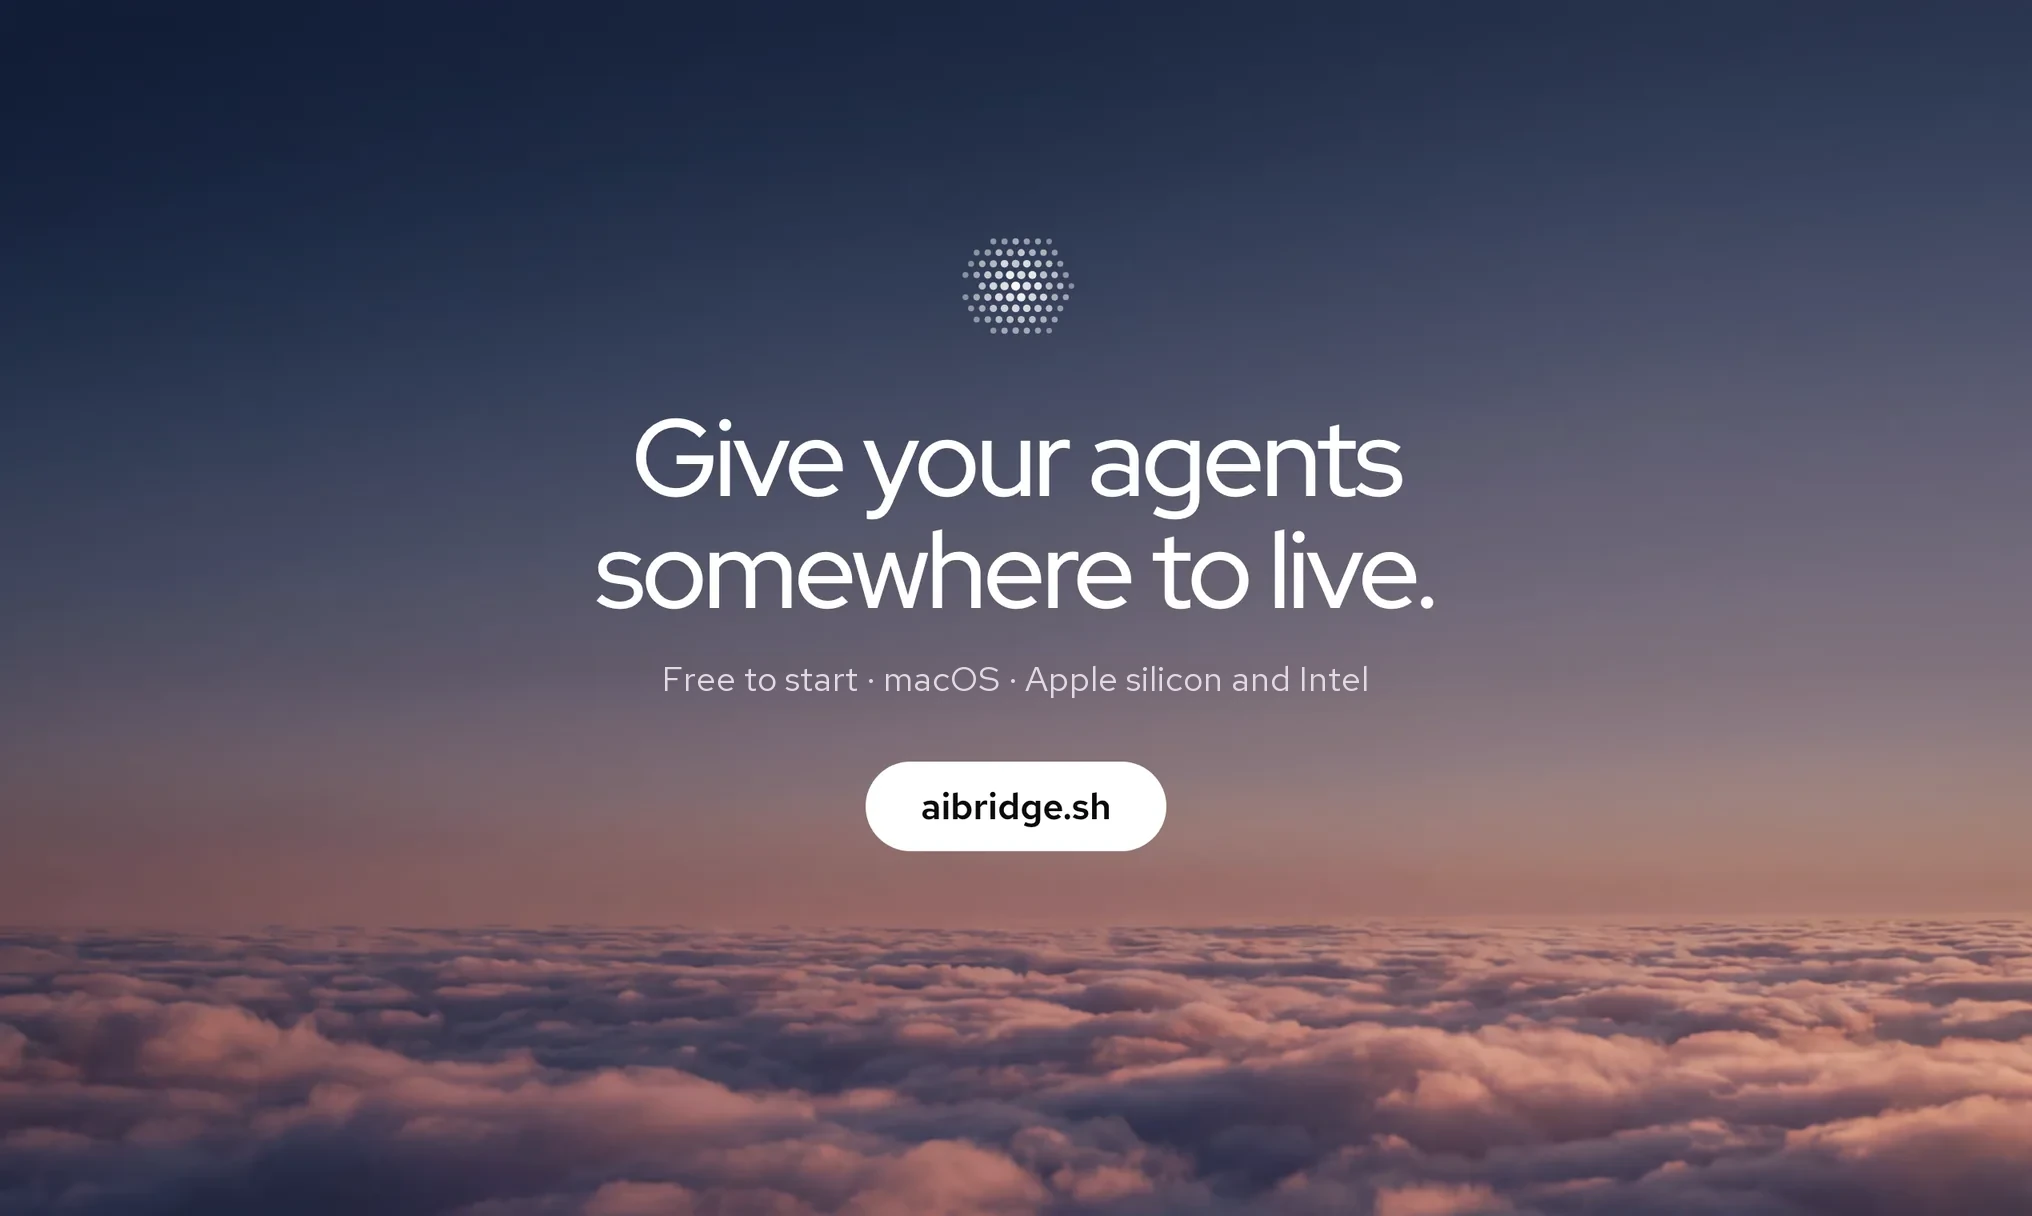
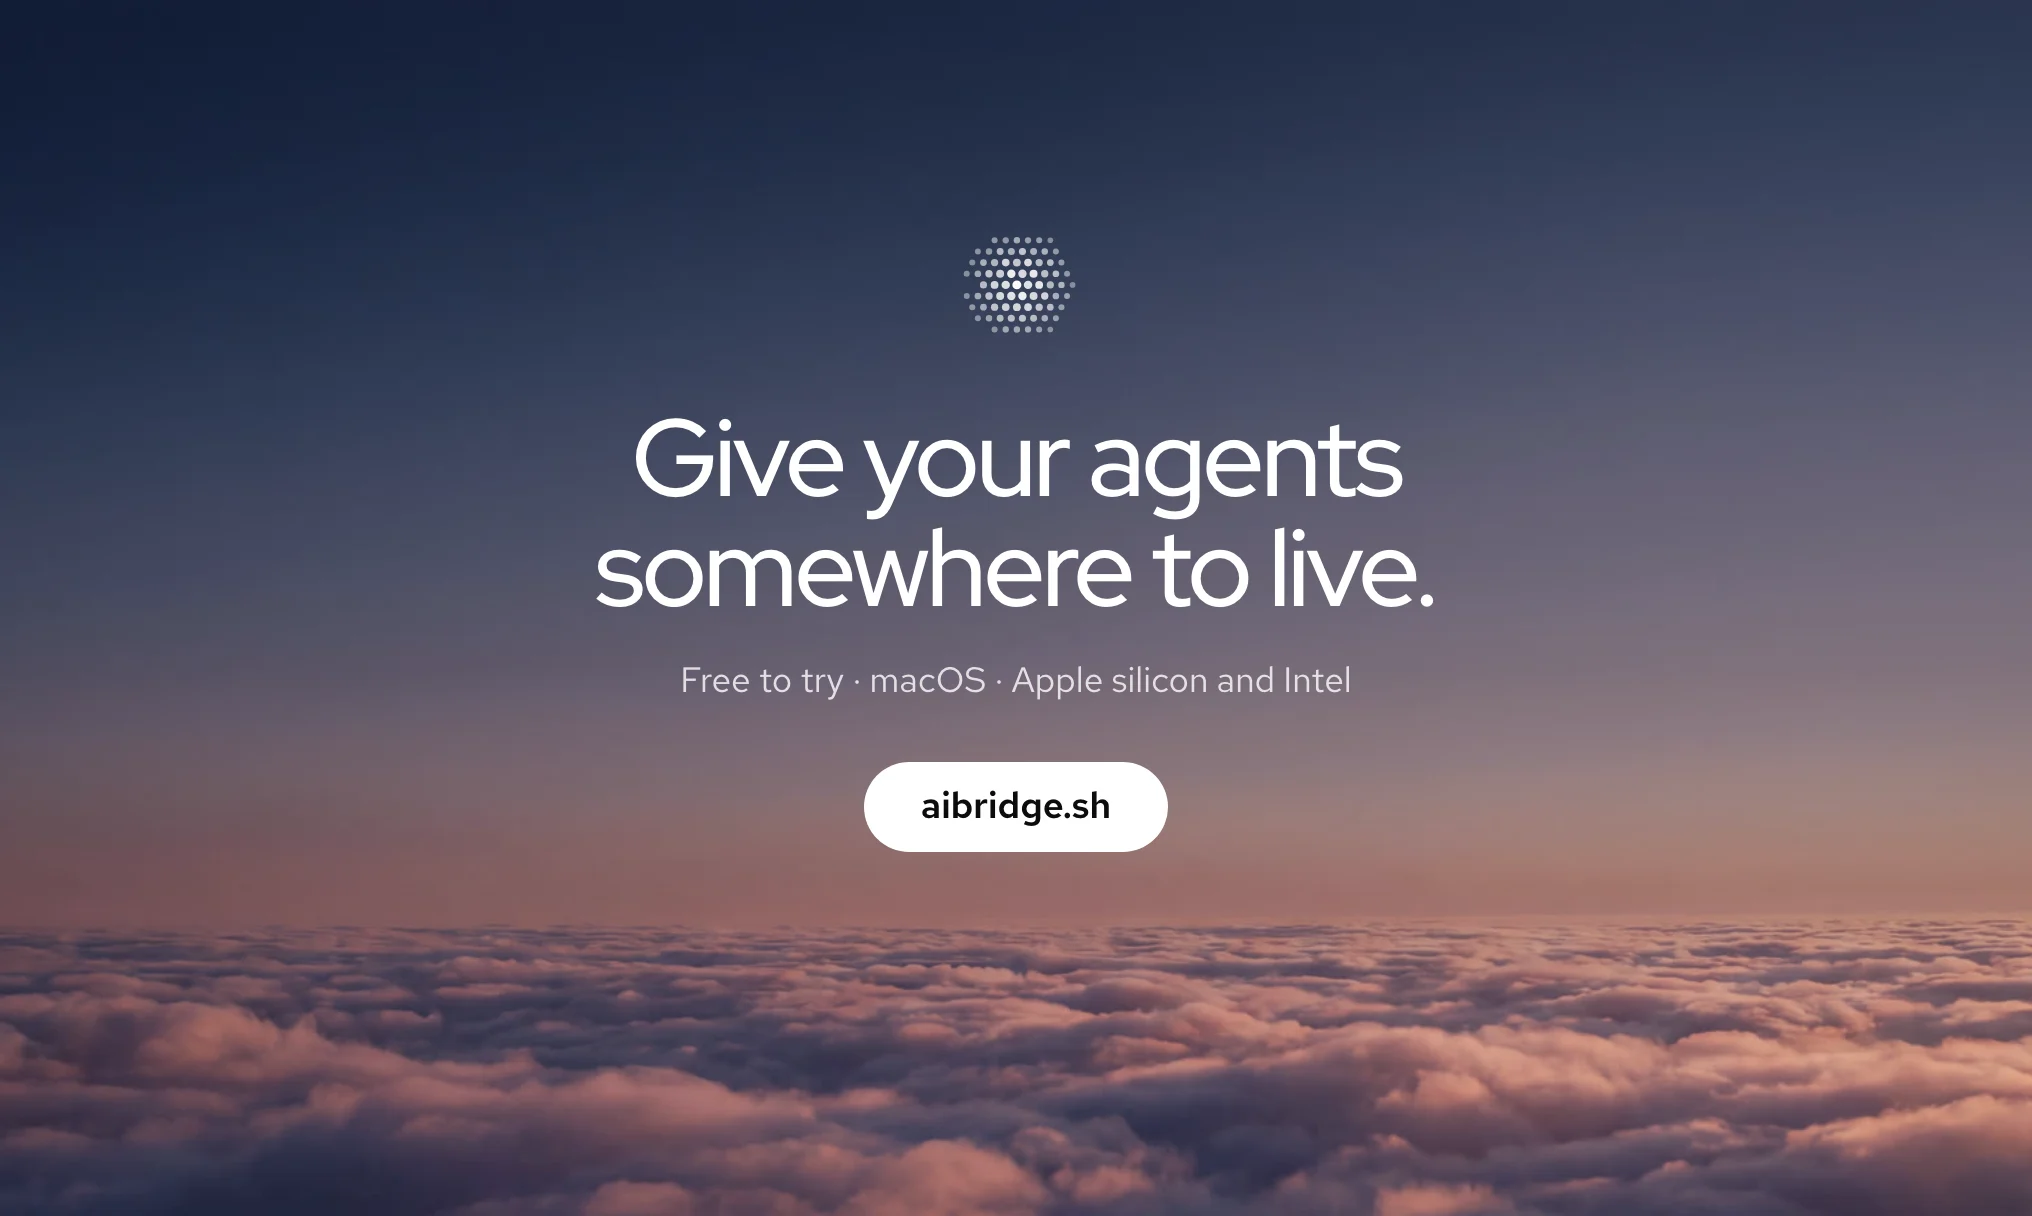
README: free to try for 31 days, then Pro or Team (AI Bridge 1.0.0)

diff --git a/README.md b/README.md
@@ -12,7 +12,7 @@ See which one needs you, and pick any up tomorrow where it stopped.
 </p>
 
 <p align="center">
-  <sub>Free to start · macOS · Apple silicon and <a href="https://aibridge.sh/download/x64?src=github">Intel</a> · Signed and notarised</sub>
+  <sub>Free to try · macOS · Apple silicon and <a href="https://aibridge.sh/download/x64?src=github">Intel</a> · Signed and notarised</sub>
 </p>
 
 <br>
@@ -59,7 +59,7 @@ Updates come from this repository's [releases](../../releases). AI Bridge tells 
 
 **Where does my work live?** On your Mac. Your workspaces are plain files in `~/Bridge`.
 
-**What does it cost?** It's free to start. The plans are on [aibridge.sh](https://aibridge.sh/?src=github#pricing).
+**What does it cost?** It's free to try: sign in and you get 31 days of everything, no card needed. Then it's Pro or Team, on [aibridge.sh](https://aibridge.sh/?src=github#pricing).
 
 ## Report a bug or suggest a feature
 
@@ -77,7 +77,7 @@ Issues are public and stay public. Leave out anything private: tokens, customer 
 <br>
 
 <p align="center">
-  <a href="https://aibridge.sh/?src=github"><img src=".github/readme/start.webp" width="100%" alt="Give your agents somewhere to live. Free to start, macOS, Apple silicon and Intel. aibridge.sh"></a>
+  <a href="https://aibridge.sh/?src=github"><img src=".github/readme/start.webp" width="100%" alt="Give your agents somewhere to live. Free to try, macOS, Apple silicon and Intel. aibridge.sh"></a>
 </p>
 
 <p align="center">
